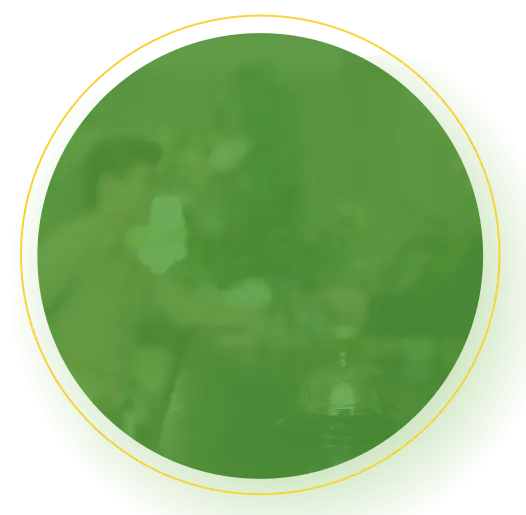
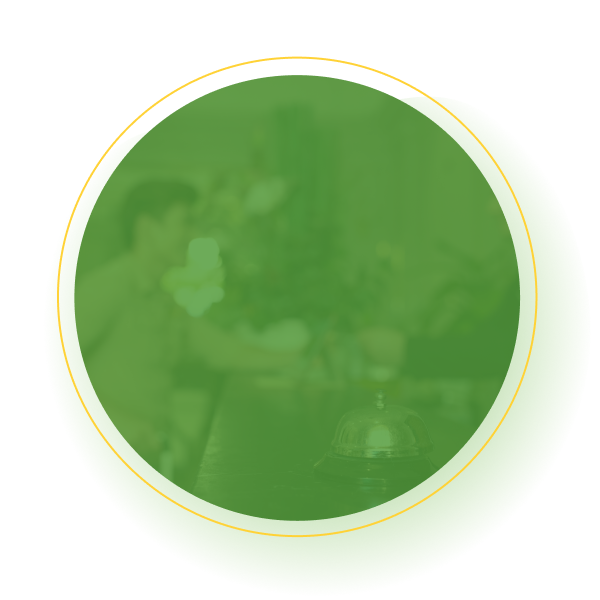
carrusel sectores

diff --git a/view/servicios.html b/view/servicios.html
@@ -52,9 +52,9 @@
     </div>
     <div class="bg-blanco mt-5"> 
         <div class="container">
-            <div id="contenido-proceso" class="row g-5 padding-lateral-section ">
+            <div id="contenido-proceso" class="row g-3 padding-lateral-section ">
                 <div class="col-md-3 ">
-                    <div class="card-process bg-blanco box-shadow">
+                    <div class="card-process bg-blanco box-shadow mt-negative">
                         <img src="/img/solicitud.webp" alt="" class="img-process">
                         <h3 class="h3 text-center">Solicitud</h3>
                         <span class="separador"></span>
@@ -64,7 +64,7 @@
                     </div>
                 </div>
                 <div class="col-md-3 ">
-                    <div class="card-process bg-blanco box-shadow">
+                    <div class="card-process bg-blanco box-shadow mt-negative">
                         <img src="/img/Recoleccion.webp" alt="" class="img-process">
                         <h3 class="h3 text-center">Recolección</h3>
                         <span class="separador"></span>
@@ -74,7 +74,7 @@
                     </div>
                 </div>
                 <div class="col-md-3 ">
-                    <div class="card-process bg-blanco box-shadow">
+                    <div class="card-process bg-blanco box-shadow mt-negative">
                         <img src="/img/Gestion.webp" alt="" class="img-process">
                         <h3 class="h3 text-center">Gestión</h3>
                         <span class="separador"></span>
@@ -84,7 +84,7 @@
                     </div>
                 </div>
                 <div class="col-md-3 ">
-                    <div class="card-process bg-blanco box-shadow">
+                    <div class="card-process bg-blanco box-shadow mt-negative">
                         <img src="/img/Certificacion.webp" alt="" class="img-process">
                         <h3 class="h3 text-center">Certificación</h3>
                         <span class="separador"></span>
@@ -116,11 +116,51 @@
                     ayudando a cada sector a reducir su impacto ambiental y promover prácticas sostenibles. Nuestra flexibilidad nos permite trabajar
                      con diferentes tipos de negocios e instituciones, convirtiendo un residuo dañino en una oportunidad para cuidar el planeta.
                       Si compartes nuestro compromiso con el medio ambiente, estamos listos para ayudarte a marcar la diferencia.</p>
+                      <button class="btn btn-secondary">Contactar un asesor</button>
             </article>
     
-            <article id="art4" class="imagen">
-                    <img src="/img/Restaurantes.webp" alt="">   
-                </article>
+            <div id="carrusel-sectores" class="carousel slide" data-bs-ride="carousel">
+                <div class="carousel-inner">
+              
+                  <div class="carousel-item active">
+                    <img src="/img/Restaurantes.webp" class="" alt="Imagen 1">
+                    <div class="carousel-caption d-none d-md-block">
+                      <h5 class="h4 text-item-caruosel">Restaurantes</h5>
+                    </div>
+                  </div>
+              
+                  <div class="carousel-item">
+                    <img src="/img/hoteles.webp" class="" alt="Imagen 2">
+                    <div class="carousel-caption d-none d-md-block">
+                      <h5 class="h4 text-item-caruosel">Hoteles</h5>
+                    </div>
+                  </div>
+              
+                  <div class="carousel-item">
+                    <img src="/img/Colegios.webp" class="" alt="Imagen 3">
+                    <div class="carousel-caption d-none d-md-block">
+                      <h5 class="h4 text-item-caruosel">Centros educativos</h5>
+                    </div>
+                  </div>
+              
+                  <div class="carousel-item">
+                    <img src="/img/Hogares_.webp" class="" alt="Imagen 4">
+                    <div class="carousel-caption d-none d-md-block">
+                      <h5 class="h4 text-item-caruosel">Hogares</h5>
+                    </div> 
+                  </div>
+              
+                </div>
+              
+                <button class="carousel-control-prev" type="button" data-bs-target="#carrusel-sectores" data-bs-slide="prev">
+                    <i class="fa-solid fa-chevron-left"></i>
+                </button>
+                <button class="carousel-control-next" type="button" data-bs-target="#carrusel-sectores" data-bs-slide="next">
+                    <i class="fa-solid fa-chevron-right"></i>
+                </button>
+              
+              </div>
+              
                    
         </section>
 <!-- Fin clientes -->
@@ -138,13 +178,15 @@
                     el agua y dañar los ecosistemas. Con este simple hábito, contribuyes a reducir la contaminación y a fomentar un manejo responsable de los residuos. 
                 </p>
                 <div class="d-flex justify-content-center">
-                    <iframe width="560" height="315" src="https://www.youtube.com/embed/tHF7IttTymA?si=6pb5ECVNPrzJYhXi" title="YouTube video player" frameborder="0" allow="accelerometer; autoplay; clipboard-write; encrypted-media; gyroscope; picture-in-picture; web-share" referrerpolicy="strict-origin-when-cross-origin" allowfullscreen></iframe>
+                    <iframe width="560" height="315" src="https://www.youtube.com/embed/tHF7IttTymA?si=6pb5ECVNPrzJYhXi" title="YouTube video player" frameborder="0" allow="accelerometer; autoplay; clipboard-write; encrypted-media; gyroscope; picture-in-picture; web-share" referrerpolicy="strict-origin-when-cross-origin" allowfullscreen class="rounded-2"></iframe>
                 </div>
             </div>
         </div>
     </div>
 </div>
 </main>
+
+
 
     <div id="footer">
         <script>
@@ -157,6 +199,6 @@
                 .catch(error => console.error('Error al cargar el footer:', error));
         </script>
         </div>
-    
+    <script src="/libs/bootstrap/js/bootstrap.bundle.js"></script>
 </body>
 </html>

diff --git a/view/impacto_ambiental.html b/view/impacto_ambiental.html
@@ -45,18 +45,18 @@
         <div id="process-section" class="">
              <div class="container">
                 <div class="padding-section">
-                    <h2 class="h2 text-center">El aceite vertido en el desagüe provoca bloqueos en sistemas de alcantarillado
+                    <h2 class="h2 text-center mb-5">El aceite vertido en el desagüe provoca bloqueos en sistemas de alcantarillado
                     y dificulta el tratamiento de aguas residuales</h2>
                  </div>
             </div>
 
         <div class="bg-blanco mt-5"> 
             <div class="container">
-                <div id="contenido-proceso" class="row g-5 padding-lateral-section ">
+                <div id="contenido-proceso" class="row g-3 padding-lateral-section ">
 
                      <div class="col-md-3 ">
-                        <div class="card-process bg-blanco box-shadow">
-                            <img src="/img/Contenedores.webp" alt="" class="img-process">
+                        <div class="card-process bg-blanco box-shadow mt-negative">
+                            <img src="/img/mesa-con-verduras.png" alt="" class="img-process rounded-circle">
                             <h3 class="h6 text-center">Beneficios del reciclaje de aceite usado</h3>
                             <span class="separador"></span>
                             <p class="text-center ">El reciclaje de aceite usado no solo evita la contaminación ambiental, sino
@@ -68,7 +68,7 @@
                     </div>
 
                     <div class="col-md-3 ">
-                        <div class="card-process bg-blanco box-shadow">
+                        <div class="card-process bg-blanco box-shadow mt-negative">
                             <img src="/img/transporte.webp" alt="" class="img-process">
                             <h3 class="h6 text-center">Nuestro impacto positivo en el planeta</h3>
                             <span class="separador"></span>
@@ -80,7 +80,7 @@
                     </div>
 
                     <div class="col-md-3 ">
-                        <div class="card-process bg-blanco box-shadow">
+                        <div class="card-process bg-blanco box-shadow mt-negative">
                             <img src="/img/dinero.webp" alt="" class="img-process">
                             <h3 class="h6 text-center">Educación y conciencia ambiental</h3>
                             <span class="separador"></span>
@@ -92,7 +92,7 @@
                     </div>
 
                     <div class="col-md-3 ">
-                        <div class="card-process bg-blanco box-shadow">
+                        <div class="card-process bg-blanco box-shadow mt-negative">
                             <img src="/img/dinero.webp" alt="" class="img-process">
                             <h3 class="h6 text-center">Llamado a la acción</h3>
                             <span class="separador"></span>

diff --git a/css/servicios.css b/css/servicios.css
@@ -17,5 +17,23 @@
     
     width: 40%;
     align-content: center;
-
+}
+/*carrusel*/
+.carousel-control-prev, .carousel-control-next {
+    background: #549c3c;
+    height: 50px !important;
+    width: 50px !important;
+    border-radius: 50px;
+    position: absolute !important;
+    top: calc(50% - 25px) !important;
+}
+div#carrusel-sectores {
+    width: 600px;
+}
+.text-item-caruosel {
+    position: absolute;
+    bottom: 250px;
+    width: 250px;
+    text-wrap: auto;
+    left: calc(50% - 125px)
 }

diff --git a/libs/bootstrap/css/bootstrap.css b/libs/bootstrap/css/bootstrap.css
@@ -6084,17 +6084,17 @@ textarea.form-control-lg {
 .carousel-control-prev,
 .carousel-control-next {
   position: absolute;
-  top: 0;
-  bottom: 0;
+  top: calc(50% - 25px);
   z-index: 1;
   display: flex;
   align-items: center;
   justify-content: center;
-  width: 15%;
+  width: 50px;
+  height: 50px;
   padding: 0;
   color: #fff;
   text-align: center;
-  background: none;
+  background: #549c3c;
   filter: var(--bs-carousel-control-icon-filter);
   border: 0;
   opacity: 0.5;
